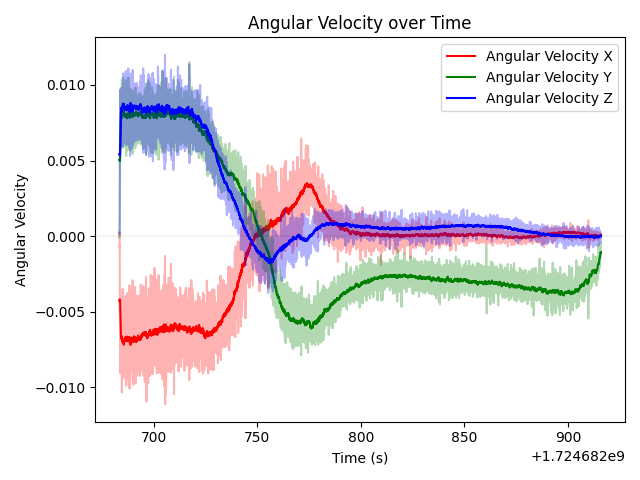
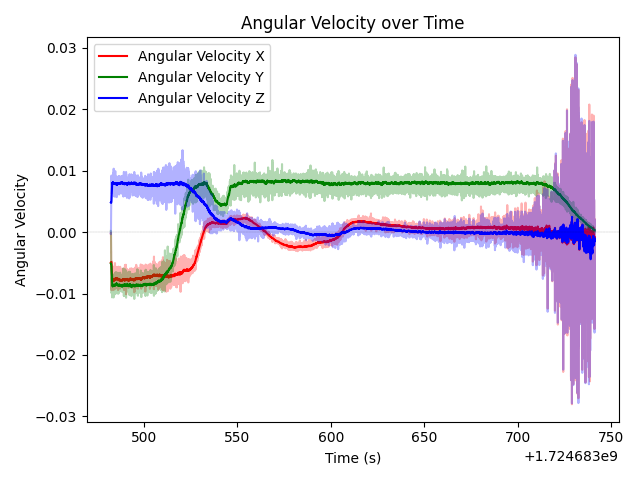
some new plot added and target vel also added

diff --git a/rosbag_first.py b/rosbag_first.py
@@ -84,6 +84,7 @@ def plot_action_topic(messages):
     plt.plot(timestamps, linear_x,  label='X', color='red')
     plt.plot(timestamps, linear_y,  label='Y', color='green')
     plt.plot(timestamps, linear_z,  label='Z', color='blue')
+    plt.axhline(0, color='black', linestyle='--', linewidth=.1)
     plt.title('Displacement Action')
     plt.xlabel('Time (s)')
     plt.ylabel('x0.01 m')
@@ -97,6 +98,7 @@ def plot_action_topic(messages):
     plt.plot(timestamps, angular_x, label='Roll', color='red')
     plt.plot(timestamps, angular_y, label='Pitch', color='green')
     plt.plot(timestamps, angular_z, label='Yaw', color='blue')
+    plt.axhline(0, color='black', linestyle='--', linewidth=.1)
     plt.title('Rotation Action')
     plt.xlabel('Time (s)')
     plt.ylabel('x0.1 rad')
@@ -243,62 +245,107 @@ def plot_pose_topic_w_ref(messages, ref):
     plt.savefig('orientation_euler_plot.png')
     plt.close()
 
-def calculate_velocity(message, window_size=10):
+def calculate_velocity(gripper_message, target_message, window_size=10):
     # Extract the position and orientation values
-    position_x = [msg.pose.position.x for msg in message]
-    position_y = [msg.pose.position.y for msg in message]
-    position_z = [msg.pose.position.z for msg in message]
+    gripper_position_x = [msg.pose.position.x for msg in gripper_message]
+    gripper_position_y = [msg.pose.position.y for msg in gripper_message]
+    gripper_position_z = [msg.pose.position.z for msg in gripper_message]
 
-    position_x_smooth = uniform_filter1d(position_x, size=window_size)
-    position_y_smooth = uniform_filter1d(position_y, size=window_size)
-    position_z_smooth = uniform_filter1d(position_z, size=window_size)
+    target_position_x = [msg.pose.position.x for msg in target_message]
+    target_position_y = [msg.pose.position.y for msg in target_message]
+    target_position_z = [msg.pose.position.z for msg in target_message]
 
-    orientation_x = [msg.pose.orientation.x for msg in message]
-    orientation_y = [msg.pose.orientation.y for msg in message]
-    orientation_z = [msg.pose.orientation.z for msg in message]
-    orientation_w = [msg.pose.orientation.w for msg in message]
+    gripper_position_x_smooth = uniform_filter1d(gripper_position_x, size=window_size)
+    gripper_position_y_smooth = uniform_filter1d(gripper_position_y, size=window_size)
+    gripper_position_z_smooth = uniform_filter1d(gripper_position_z, size=window_size)
 
-    orientation_x_smooth = uniform_filter1d(orientation_x, size=window_size)
-    orientation_y_smooth = uniform_filter1d(orientation_y, size=window_size)
-    orientation_z_smooth = uniform_filter1d(orientation_z, size=window_size)
-    orientation_w_smooth = uniform_filter1d(orientation_w, size=window_size)
+    target_position_x_smooth = uniform_filter1d(target_position_x, size=window_size)
+    target_position_y_smooth = uniform_filter1d(target_position_y, size=window_size)
+    target_position_z_smooth = uniform_filter1d(target_position_z, size=window_size)
+
+    gripper_orientation_x = [msg.pose.orientation.x for msg in gripper_message]
+    gripper_orientation_y = [msg.pose.orientation.y for msg in gripper_message]
+    gripper_orientation_z = [msg.pose.orientation.z for msg in gripper_message]
+    gripper_orientation_w = [msg.pose.orientation.w for msg in gripper_message]
+
+    target_orientation_x = [msg.pose.orientation.x for msg in target_message]
+    target_orientation_y = [msg.pose.orientation.y for msg in target_message]
+    target_orientation_z = [msg.pose.orientation.z for msg in target_message]
+    target_orientation_w = [msg.pose.orientation.w for msg in target_message]
+
+    gripper_orientation_x_smooth = uniform_filter1d(gripper_orientation_x, size=window_size)
+    gripper_orientation_y_smooth = uniform_filter1d(gripper_orientation_y, size=window_size)
+    gripper_orientation_z_smooth = uniform_filter1d(gripper_orientation_z, size=window_size)
+    gripper_orientation_w_smooth = uniform_filter1d(gripper_orientation_w, size=window_size)
+
+    target_orientation_x_smooth = uniform_filter1d(target_orientation_x, size=window_size)
+    target_orientation_y_smooth = uniform_filter1d(target_orientation_y, size=window_size)
+    target_orientation_z_smooth = uniform_filter1d(target_orientation_z, size=window_size)
+    target_orientation_w_smooth = uniform_filter1d(target_orientation_w, size=window_size)
 
     # Calculate the time stamps
-    timestamps = [msg.header.stamp.to_sec() for msg in message]
+    timestamps = [msg.header.stamp.to_sec() for msg in gripper_message]
 
     # Calculate the velocity
-    velocity_x = np.diff(position_x_smooth) / np.diff(timestamps)
-    velocity_y = np.diff(position_y_smooth) / np.diff(timestamps)
-    velocity_z = np.diff(position_z_smooth) / np.diff(timestamps)
+    gripper_velocity_x = np.diff(gripper_position_x_smooth) / np.diff(timestamps)
+    gripper_velocity_y = np.diff(gripper_position_y_smooth) / np.diff(timestamps)
+    gripper_velocity_z = np.diff(gripper_position_z_smooth) / np.diff(timestamps)
+    target_velocity_x = np.diff(target_position_x_smooth) / np.diff(timestamps)
+    target_velocity_y = np.diff(target_position_y_smooth) / np.diff(timestamps)
+    target_velocity_z = np.diff(target_position_z_smooth) / np.diff(timestamps)
 
     # Calculate the angular velocity
-    orintation = list(zip(orientation_x_smooth, orientation_y_smooth, orientation_z_smooth, orientation_w_smooth))
-    euler = [tft.euler_from_quaternion(ori) for ori in orintation]
-    orientation_roll = [e[0] for e in euler]
-    orientation_pitch = [e[1] for e in euler]
-    orientation_yaw = [e[2] for e in euler]
+    gripper_orintation = list(zip(gripper_orientation_x_smooth, gripper_orientation_y_smooth, gripper_orientation_z_smooth, gripper_orientation_w_smooth))
+    gripper_euler = [tft.euler_from_quaternion(ori) for ori in gripper_orintation]
+    gripper_orientation_roll = [e[0] for e in gripper_euler]
+    gripper_orientation_pitch = [e[1] for e in gripper_euler]
+    gripper_orientation_yaw = [e[2] for e in gripper_euler]
 
-    angular_velocity_x = np.diff(orientation_roll) / np.diff(timestamps)
-    angular_velocity_y = np.diff(orientation_pitch) / np.diff(timestamps)
-    angular_velocity_z = np.diff(orientation_yaw) / np.diff(timestamps)
+    target_orientation = list(zip(target_orientation_x_smooth, target_orientation_y_smooth, target_orientation_z_smooth, target_orientation_w_smooth))
+    target_euler = [tft.euler_from_quaternion(ori) for ori in target_orientation]
+    target_orientation_roll = [e[0] for e in target_euler]
+    target_orientation_pitch = [e[1] for e in target_euler]
+    target_orientation_yaw = [e[2] for e in target_euler]
+
+    gripper_angular_velocity_x = np.diff(gripper_orientation_roll) / np.diff(timestamps)
+    gripper_angular_velocity_y = np.diff(gripper_orientation_pitch) / np.diff(timestamps)
+    gripper_angular_velocity_z = np.diff(gripper_orientation_yaw) / np.diff(timestamps)
+
+    target_angular_velocity_x = np.diff(target_orientation_roll) / np.diff(timestamps)
+    target_angular_velocity_y = np.diff(target_orientation_pitch) / np.diff(timestamps)
+    target_angular_velocity_z = np.diff(target_orientation_yaw) / np.diff(timestamps)
 
     # Apply a moving average to smooth the velocity data
-    velocity_x_smooth = uniform_filter1d(velocity_x, size=window_size*5)
-    velocity_y_smooth = uniform_filter1d(velocity_y, size=window_size*5)
-    velocity_z_smooth = uniform_filter1d(velocity_z, size=window_size*5)
+    gripper_velocity_x_smooth = uniform_filter1d(gripper_velocity_x, size=window_size*5)
+    gripper_velocity_y_smooth = uniform_filter1d(gripper_velocity_y, size=window_size*5)
+    gripper_velocity_z_smooth = uniform_filter1d(gripper_velocity_z, size=window_size*5)
 
-    angular_velocity_x_smooth = uniform_filter1d(angular_velocity_x, size=window_size*5)
-    angular_velocity_y_smooth = uniform_filter1d(angular_velocity_y, size=window_size*5)
-    angular_velocity_z_smooth = uniform_filter1d(angular_velocity_z, size=window_size*5)
+    target_velocity_x_smooth = uniform_filter1d(target_velocity_x, size=window_size*5)
+    target_velocity_y_smooth = uniform_filter1d(target_velocity_y, size=window_size*5)
+    target_velocity_z_smooth = uniform_filter1d(target_velocity_z, size=window_size*5)
+
+    gripper_angular_velocity_x_smooth = uniform_filter1d(gripper_angular_velocity_x, size=window_size*5)
+    gripper_angular_velocity_y_smooth = uniform_filter1d(gripper_angular_velocity_y, size=window_size*5)
+    gripper_angular_velocity_z_smooth = uniform_filter1d(gripper_angular_velocity_z, size=window_size*5)
+
+    target_angular_velocity_x_smooth = uniform_filter1d(target_angular_velocity_x, size=window_size*5)
+    target_angular_velocity_y_smooth = uniform_filter1d(target_angular_velocity_y, size=window_size*5)
+    target_angular_velocity_z_smooth = uniform_filter1d(target_angular_velocity_z, size=window_size*5)
 
     # Plot the velocity
     plt.figure()
-    plt.plot(timestamps[:-1], velocity_x,  alpha=0.3, color='red')
-    plt.plot(timestamps[:-1], velocity_x_smooth, label='Velocity X', color='red')
-    plt.plot(timestamps[:-1], velocity_y,  alpha=0.3, color='green')
-    plt.plot(timestamps[:-1], velocity_y_smooth, label='Velocity Y', color='green')
-    plt.plot(timestamps[:-1], velocity_z, alpha=0.3, color='blue')
-    plt.plot(timestamps[:-1], velocity_z_smooth, label='Velocity Z', color='blue')
+    plt.plot(timestamps[:-1], gripper_velocity_x,  alpha=0.3, color='red')
+    plt.plot(timestamps[:-1], gripper_velocity_x_smooth, label='Velocity X', color='red')
+    plt.plot(timestamps[:-1], gripper_velocity_y,  alpha=0.3, color='green')
+    plt.plot(timestamps[:-1], gripper_velocity_y_smooth, label='Velocity Y', color='green')
+    plt.plot(timestamps[:-1], gripper_velocity_z, alpha=0.3, color='blue')
+    plt.plot(timestamps[:-1], gripper_velocity_z_smooth, label='Velocity Z', color='blue')
+    plt.plot(timestamps[:-1], target_velocity_x,  alpha=0.3, color='orange')
+    plt.plot(timestamps[:-1], target_velocity_x_smooth, label='Target Velocity X', color='orange')
+    plt.plot(timestamps[:-1], target_velocity_y,  alpha=0.3, color='purple')
+    plt.plot(timestamps[:-1], target_velocity_y_smooth, label='Target Velocity Y', color='purple')
+    plt.plot(timestamps[:-1], target_velocity_z, alpha=0.3, color='cyan')
+    plt.plot(timestamps[:-1], target_velocity_z_smooth, label='Target Velocity Z', color='cyan')
     plt.axhline(0, color='black', linestyle='--', linewidth=.1)
     plt.title('Linear Velocity over Time')
     plt.xlabel('Time (s)')
@@ -310,12 +357,12 @@ def calculate_velocity(message, window_size=10):
 
     # Plot the angular velocity
     plt.figure()
-    plt.plot(timestamps[:-1], angular_velocity_x, alpha=0.3, color='red')
-    plt.plot(timestamps[:-1], angular_velocity_x_smooth, label='Angular Velocity X', color='red')
-    plt.plot(timestamps[:-1], angular_velocity_y, alpha=0.3, color='green')
-    plt.plot(timestamps[:-1], angular_velocity_y_smooth, label='Angular Velocity Y', color='green')
-    plt.plot(timestamps[:-1], angular_velocity_z, alpha=0.3, color='blue')
-    plt.plot(timestamps[:-1], angular_velocity_z_smooth, label='Angular Velocity Z', color='blue')
+    plt.plot(timestamps[:-1], gripper_angular_velocity_x, alpha=0.3, color='red')
+    plt.plot(timestamps[:-1], gripper_angular_velocity_x_smooth, label='Angular Velocity X', color='red')
+    plt.plot(timestamps[:-1], gripper_angular_velocity_y, alpha=0.3, color='green')
+    plt.plot(timestamps[:-1], gripper_angular_velocity_y_smooth, label='Angular Velocity Y', color='green')
+    plt.plot(timestamps[:-1], gripper_angular_velocity_z, alpha=0.3, color='blue')
+    plt.plot(timestamps[:-1], gripper_angular_velocity_z_smooth, label='Angular Velocity Z', color='blue')
     plt.axhline(0, color='black', linestyle='--', linewidth=.1)
     plt.title('Angular Velocity over Time')
     plt.xlabel('Time (s)')
@@ -325,10 +372,59 @@ def calculate_velocity(message, window_size=10):
     plt.savefig('angular_velocity_plot.png')
     plt.close()
 
-    return velocity_x_smooth, velocity_y_smooth, velocity_z_smooth, angular_velocity_x_smooth, angular_velocity_y_smooth, angular_velocity_z_smooth
+    # return velocity_x_smooth, velocity_y_smooth, velocity_z_smooth, angular_velocity_x_smooth, angular_velocity_y_smooth, angular_velocity_z_smooth
+
+def calculate_distance_and_orientation_difference(gripper_messages, target_messages):
+    distances = []
+    orientation_differences = []
+    timestamps = [msg.header.stamp.to_sec() for msg in gripper_messages]
+
+    for gripper_msg, target_msg in zip(gripper_messages, target_messages):
+        # Position difference (Euclidean distance)
+        dx = gripper_msg.pose.position.x - target_msg.pose.position.x
+        dy = gripper_msg.pose.position.y - target_msg.pose.position.y
+        dz = gripper_msg.pose.position.z - target_msg.pose.position.z
+        distance = np.sqrt(dx**2 + dy**2 + dz**2)
+        distances.append(distance)
+
+        # Quaternion orientation difference
+        gripper_quat = [gripper_msg.pose.orientation.x, gripper_msg.pose.orientation.y, gripper_msg.pose.orientation.z, gripper_msg.pose.orientation.w]
+        target_quat = [target_msg.pose.orientation.x, target_msg.pose.orientation.y, target_msg.pose.orientation.z, target_msg.pose.orientation.w]
+        
+        # Compute angular difference
+        dot_product = np.dot(gripper_quat, target_quat)
+        angular_difference = 2 * np.arccos(np.clip(dot_product, -1.0, 1.0))  # Clipped for numerical stability
+        orientation_differences.append(angular_difference)
+
+    return distances, orientation_differences, timestamps
+
+def plot_distance_and_orientation(distances, orientation_differences, timestamps):
+    # Plot distances
+    plt.figure()
+    plt.plot(timestamps, distances, label='Distance', color='blue')
+    plt.axhline(0, color='black', linestyle='--', linewidth=.1)
+    plt.title('Distance between Gripper and Target over Time')
+    plt.xlabel('Time (s)')
+    plt.ylabel('Distance (m)')
+    plt.legend()
+    plt.tight_layout()
+    plt.savefig('distance_plot.png')
+    plt.close()
+
+    # Plot orientation differences
+    plt.figure()
+    plt.plot(timestamps, orientation_differences, label='Orientation Difference', color='orange')
+    plt.axhline(0, color='black', linestyle='--', linewidth=.1)
+    plt.title('Orientation Difference between Gripper and Target over Time')
+    plt.xlabel('Time (s)')
+    plt.ylabel('Orientation Difference (radians)')
+    plt.legend()
+    plt.tight_layout()
+    plt.savefig('orientation_difference_plot.png')
+    plt.close()
 
 # Load the ROS bag
-bag_path = 'rosbags/delay_2ms_x0.06_both_robots_all50hz_ry_2t10_2024-08-26-16-31-05.bag'
+bag_path = 'rosbags/delay_2ms_x0.06_both_robots_all50Hz_ry_p5_t11_2024-08-26-16-44-27.bag'
 bag = rosbag.Bag(bag_path, 'r')
 
 # Define how much time to cut from the start and the end
@@ -355,29 +451,25 @@ action_data = extract_topic_data(bag, '/action_topic')
 plot_action_topic(action_data)
 gripper_pose_topic = '/capture_c_a_tool1/pose'
 gripper_pose_data = extract_shifted_topic_data(bag, gripper_pose_topic, reference_start_time)
-velocity_x, velocity_y, velocity_z, angular_velocity_x, angular_velocity_y, angular_velocity_z = calculate_velocity(gripper_pose_data)
-# print(f"Velocity X: {velocity_x}")
 target_pose_topic = '/capture_ot_offset/pose'
 target_pose_data = extract_shifted_topic_data(bag, target_pose_topic, reference_start_time)
+target_way_pts_topic = '/Way_pts_target_pose'
+target_way_pts_data = extract_shifted_topic_data(bag, target_way_pts_topic, reference_start_time)
+chaser_way_pts_topic = '/Way_pts_chaser_pose'
+chaser_way_pts_data = extract_shifted_topic_data(bag, chaser_way_pts_topic, reference_start_time)
 plot_pose_topic_w_ref(gripper_pose_data, target_pose_data)
 
-topic = '/Way_pts_target_pose'
-data = extract_shifted_topic_data(bag, topic, reference_start_time)
-print(f"Type of data: {type(data)}") # <class 'list'>
-print(f"Number of messages: {len(data)}") # 17218
-print(f"Number of fields in a message: {len(data[0].__slots__)}") # 2
-print(f"Type of message: {type(data[0])}") # <class 'tmprpp995o7._geometry_msgs__TwistStamped'> <class 'tmp97szykb4._geometry_msgs__PoseStamped'>
-plot_pose_topic(data)
+calculate_velocity(gripper_pose_data, target_pose_data)
 
-# Choose a topic to extract headers from
-# topic = '/action_topic'
-# data = bag.read_messages(topics=[topic])
-# print("type of data: ", type(data))
+distances, orientation_differences, timestamps = calculate_distance_and_orientation_difference(gripper_pose_data, target_pose_data)
+plot_distance_and_orientation(distances, orientation_differences, timestamps)
 
-# Get and plot headers
-# headers = get_headers(bag, topic)
-# print(f"Headers: {headers}")
-# plot_headers(headers)
+# plot_pose_topic_w_ref(target_way_pts_data, gripper_pose_data)
+# print(f"Type of data: {type(data)}") # <class 'list'>
+# print(f"Number of messages: {len(data)}") # 17218
+# print(f"Number of fields in a message: {len(data[0].__slots__)}") # 2
+# print(f"Type of message: {type(data[0])}") # <class 'tmprpp995o7._geometry_msgs__TwistStamped'> <class 'tmp97szykb4._geometry_msgs__PoseStamped'>
+# plot_pose_topic(data)
 
 # Close the bag after use
 bag.close()
